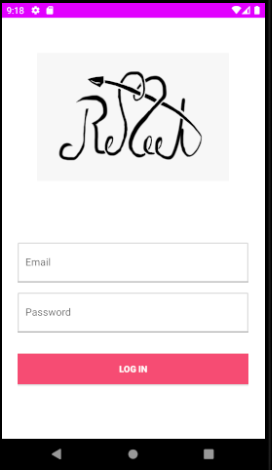
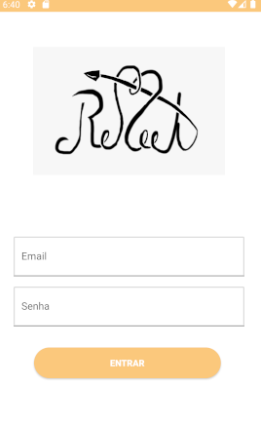
Frontend changes
Mudança nas cores e nos botões

diff --git a/ReMeet/app/src/main/java/com/shackluryz/remeet/LoginActivity.java b/ReMeet/app/src/main/java/com/shackluryz/remeet/LoginActivity.java
@@ -30,6 +30,7 @@ public class LoginActivity extends AppCompatActivity {
     protected void onCreate(Bundle savedInstanceState) {
         super.onCreate(savedInstanceState);
         setContentView(R.layout.activity_login);
+        TextView existing = (TextView) findViewById(R.id.existing);
         mAuth = FirebaseAuth.getInstance();
         firebaseAuthStateListener = new FirebaseAuth.AuthStateListener() {
             @Override
@@ -43,6 +44,15 @@ public class LoginActivity extends AppCompatActivity {
                 }
             }
         };
+        existing.setOnClickListener(new View.OnClickListener() {
+            @Override
+            public void onClick(View v) {
+                Intent i = new Intent(LoginActivity.this, RegistrationActivity.class);
+                startActivity(i);
+                finish();
+                return;
+            }
+        });
 
 
         mLogin = (Button) findViewById(R.id.login);
